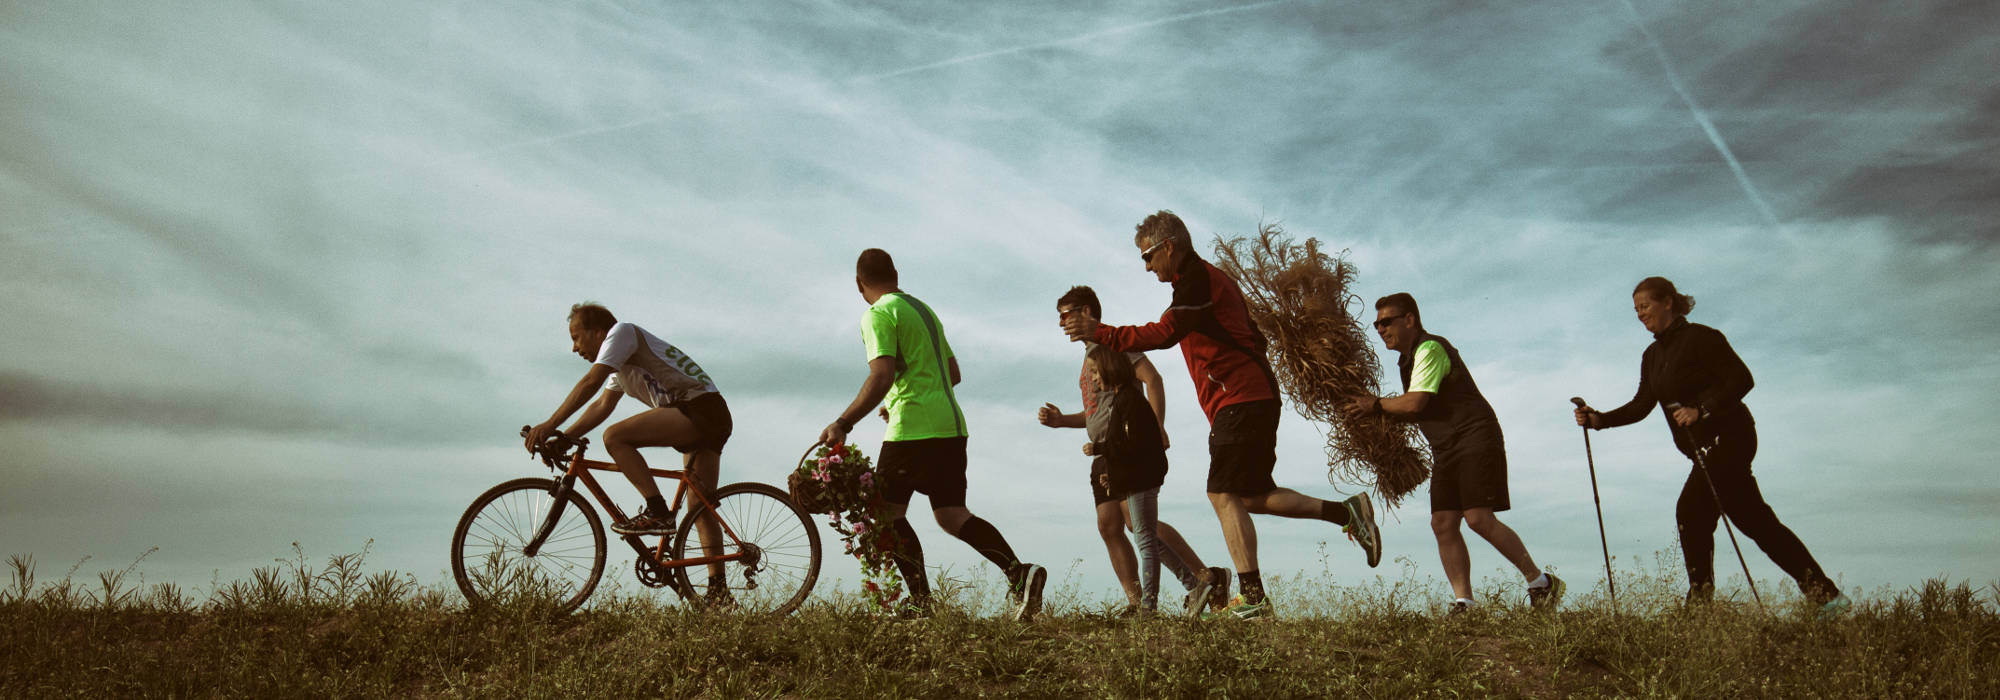
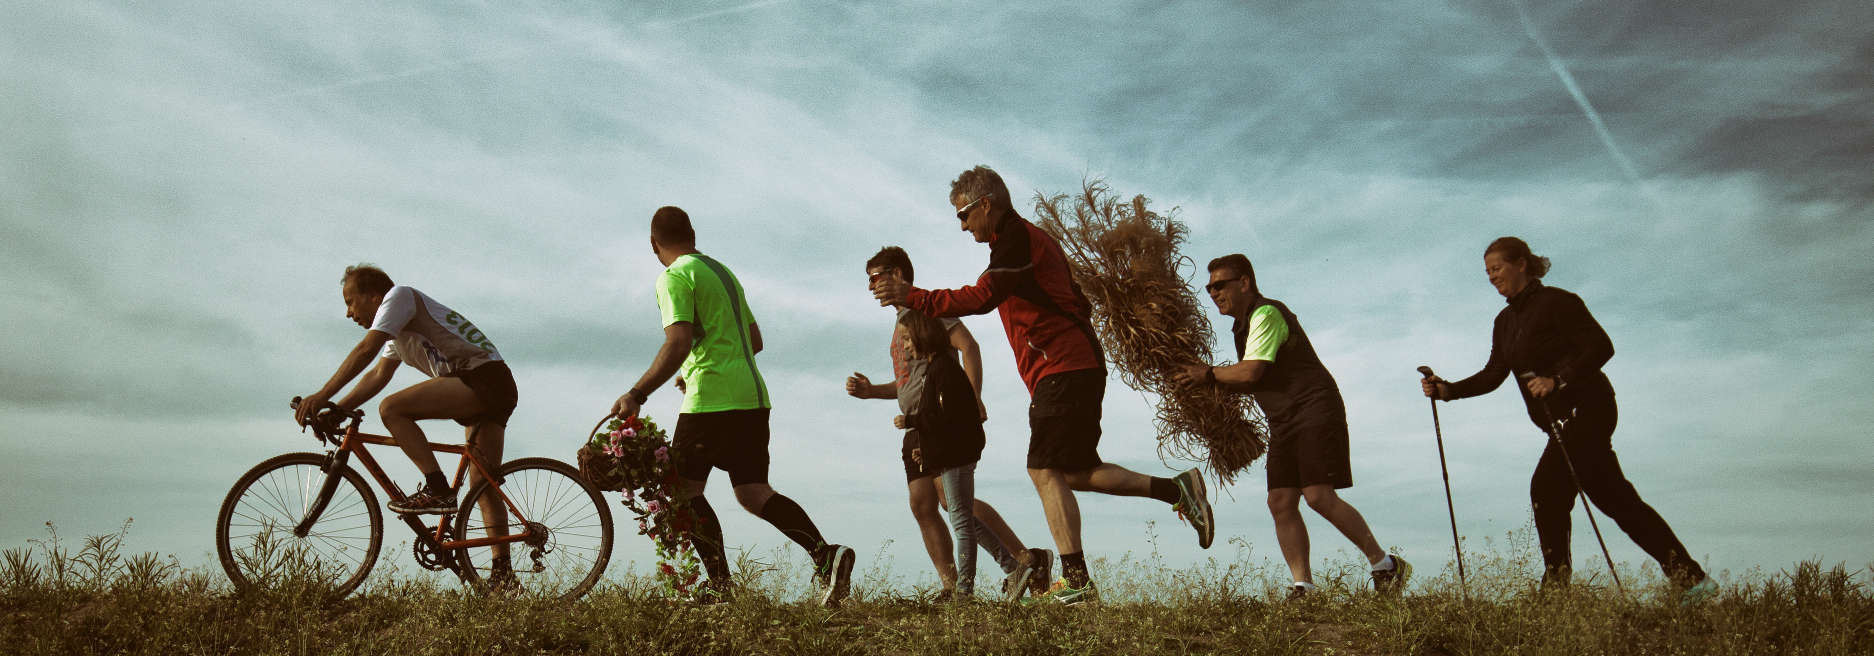
Added background images for different screen sizes.

diff --git a/assets/css/main.css b/assets/css/main.css
@@ -2491,7 +2491,7 @@ input, select, textarea {
 
 	#banner {
 		position: relative;
-		background-image: url("images/overlay.png"), url("images/overlay.png"), url("../../images/banner2.jpg");
+		background-image: url("images/overlay.png"), url("images/overlay.png"), url("../../images/banner.jpg");
 		background-position: top left, top left, center center;
 		background-repeat: repeat, repeat, no-repeat;
 		background-size: auto, auto, cover;
@@ -2673,6 +2673,8 @@ input, select, textarea {
 
 			#banner {
 				padding: 6em 0;
+				background-image: url("images/overlay.png"), url("images/overlay.png"), url("../../images/banner-1280.jpg");
+				background-size: cover;				
 			}
 
 				#banner .content {
@@ -2732,6 +2734,7 @@ input, select, textarea {
 
 			#banner {
 				padding: calc(14em + 44px) 0 14em 0;
+				background-image: url("images/overlay.png"), url("images/overlay.png"), url("../../images/banner-980.jpg");				
 			}
 
 		/* Nav */
@@ -3056,6 +3059,7 @@ input, select, textarea {
 
 			#banner {
 				padding: calc(6em + 44px) 0 6em 0;
+				background-image: url("images/overlay.png"), url("images/overlay.png"), url("../../images/banner-736.jpg");				
 			}
 
 				#banner .content {
